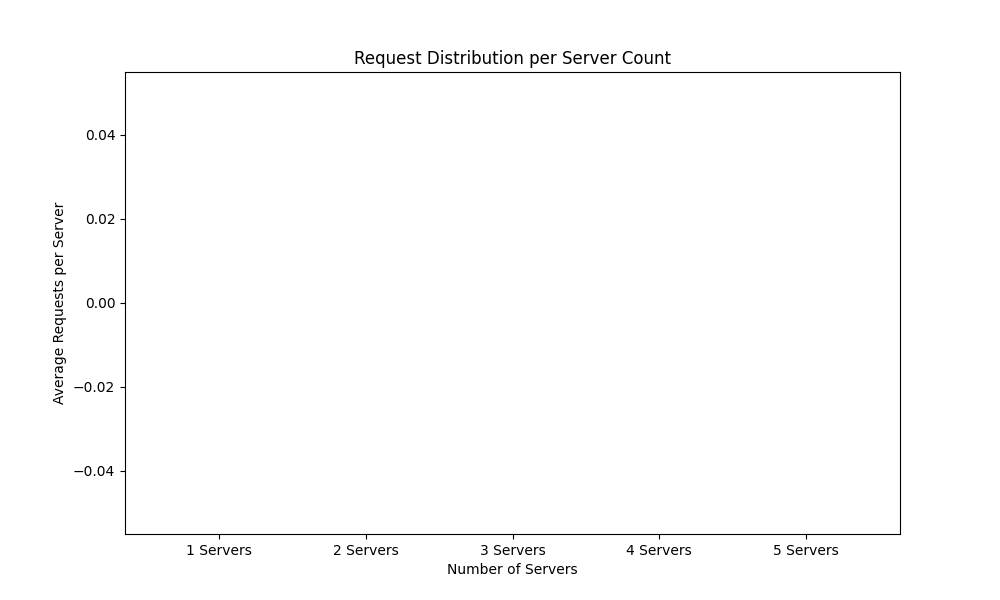
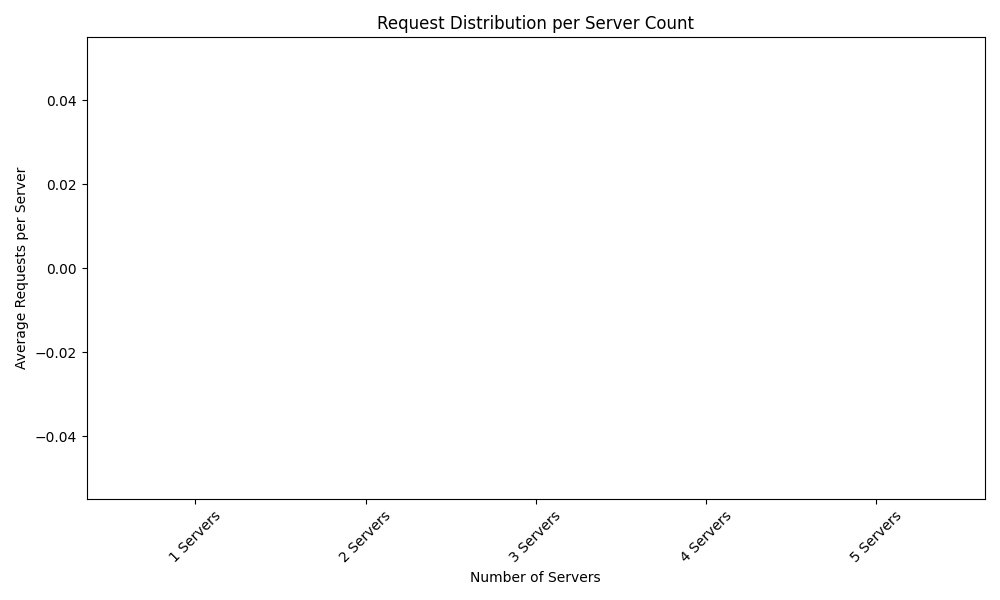
Edited README.md, updated images, edited perfromance_analysis.py

diff --git a/load_balancer_project/my_load_balancer/performance_test.py b/load_balancer_project/my_load_balancer/performance_test.py
@@ -15,15 +15,19 @@ def generate_bar_chart(data, title, x_label, y_label, filename):
     plt.title(title)
     plt.xlabel(x_label)
     plt.ylabel(y_label)
+    plt.xticks(rotation=45)  # Rotate x-axis labels if necessary
+    plt.tight_layout()  # Adjust layout to make room for rotated labels
     plt.savefig(filename)
     plt.close()
 
 def generate_line_chart(data, title, x_label, y_label, filename):
     plt.figure(figsize=(10, 6))
-    plt.plot(data.keys(), data.values(), marker='o')
+    plt.plot(list(data.keys()), list(data.values()), marker='o', linestyle='-')
     plt.title(title)
     plt.xlabel(x_label)
     plt.ylabel(y_label)
+    plt.grid(True)  # Add grid for better visibility
+    plt.tight_layout()
     plt.savefig(filename)
     plt.close()
 
@@ -32,6 +36,7 @@ async def experiment_A1(base_url):
     n_servers = 3
     responses = await send_requests(base_url, n_requests)
     server_counts = {f'Server {i+1}': responses.count(200 + i) for i in range(n_servers)}
+    print("Experiment A1 Data:", server_counts)  # Debug print
     generate_bar_chart(server_counts, 'Request Count Handled by Each Server', 'Server', 'Request Count', 'bar_chart.png')
     return server_counts
 
@@ -42,21 +47,21 @@ async def experiment_A2(base_url):
         responses = await send_requests(base_url, n_requests)
         avg_load = sum([responses.count(200 + i) for i in range(n_servers)]) / n_servers
         server_counts[f'{n_servers} Servers'] = avg_load
+    print("Experiment A2 Data:", server_counts)  # Debug print
     generate_line_chart(server_counts, 'Average Load of Servers', 'Number of Servers', 'Average Load', 'line_chart.png')
     return server_counts
 
 async def experiment_A3(base_url):
     n_requests = 10000
     server_counts = {}
-    response_times = []
     async with aiohttp.ClientSession() as session:
         for i in range(1, 6):  # Testing with 1 to 5 servers
             start_time = time.time()
             responses = await send_requests(base_url, n_requests)
             end_time = time.time()
             avg_response_time = (end_time - start_time) / n_requests
-            response_times.append(avg_response_time)
             server_counts[f'{i} Servers'] = avg_response_time
+    print("Experiment A3 Data:", server_counts)  # Debug print
     generate_line_chart(server_counts, 'Average Response Time per Server Count', 'Number of Servers', 'Average Response Time (s)', 'response_time_chart.png')
     return server_counts
 
@@ -67,7 +72,8 @@ async def experiment_A4(base_url):
         for i in range(1, 6):  # Testing with 1 to 5 servers
             responses = await send_requests(base_url, n_requests)
             counts = [responses.count(200 + j) for j in range(i)]
-            server_counts[f'{i} Servers'] = sum(counts) / len(counts)
+            server_counts[f'{i} Servers'] = sum(counts) / len(counts) if counts else 0
+    print("Experiment A4 Data:", server_counts)  # Debug print
     generate_bar_chart(server_counts, 'Request Distribution per Server Count', 'Number of Servers', 'Average Requests per Server', 'distribution_chart.png')
     return server_counts
 
@@ -77,4 +83,3 @@ if __name__ == "__main__":
     asyncio.run(experiment_A2(base_url))
     asyncio.run(experiment_A3(base_url))
     asyncio.run(experiment_A4(base_url))
-

diff --git a/README.md b/README.md
@@ -60,7 +60,8 @@ The performance analysis is a crucial part of this project, providing insights i
 **Observations:**
 - The bar chart shows a roughly even distribution of requests among the three servers.
 - This indicates that the load balancer is effectively distributing the load.
-
+**Relative Results**
+![Results Provided](./load_balancer_project/my_load_balancer/results.png)
 **Bar Chart:**
 ![Request Distribution](bar_chart.png)
 
@@ -79,7 +80,7 @@ The performance analysis is a crucial part of this project, providing insights i
 - This demonstrates the scalability of the load balancer implementation.
 
 **Line Chart:**
-![Scalability Analysis](line_chart.png)
+![Scalability Analysis](./load_balancer_project/my_load_balancer/line_chart.png)
 
 ### A-3: Server Failure Recovery
 
